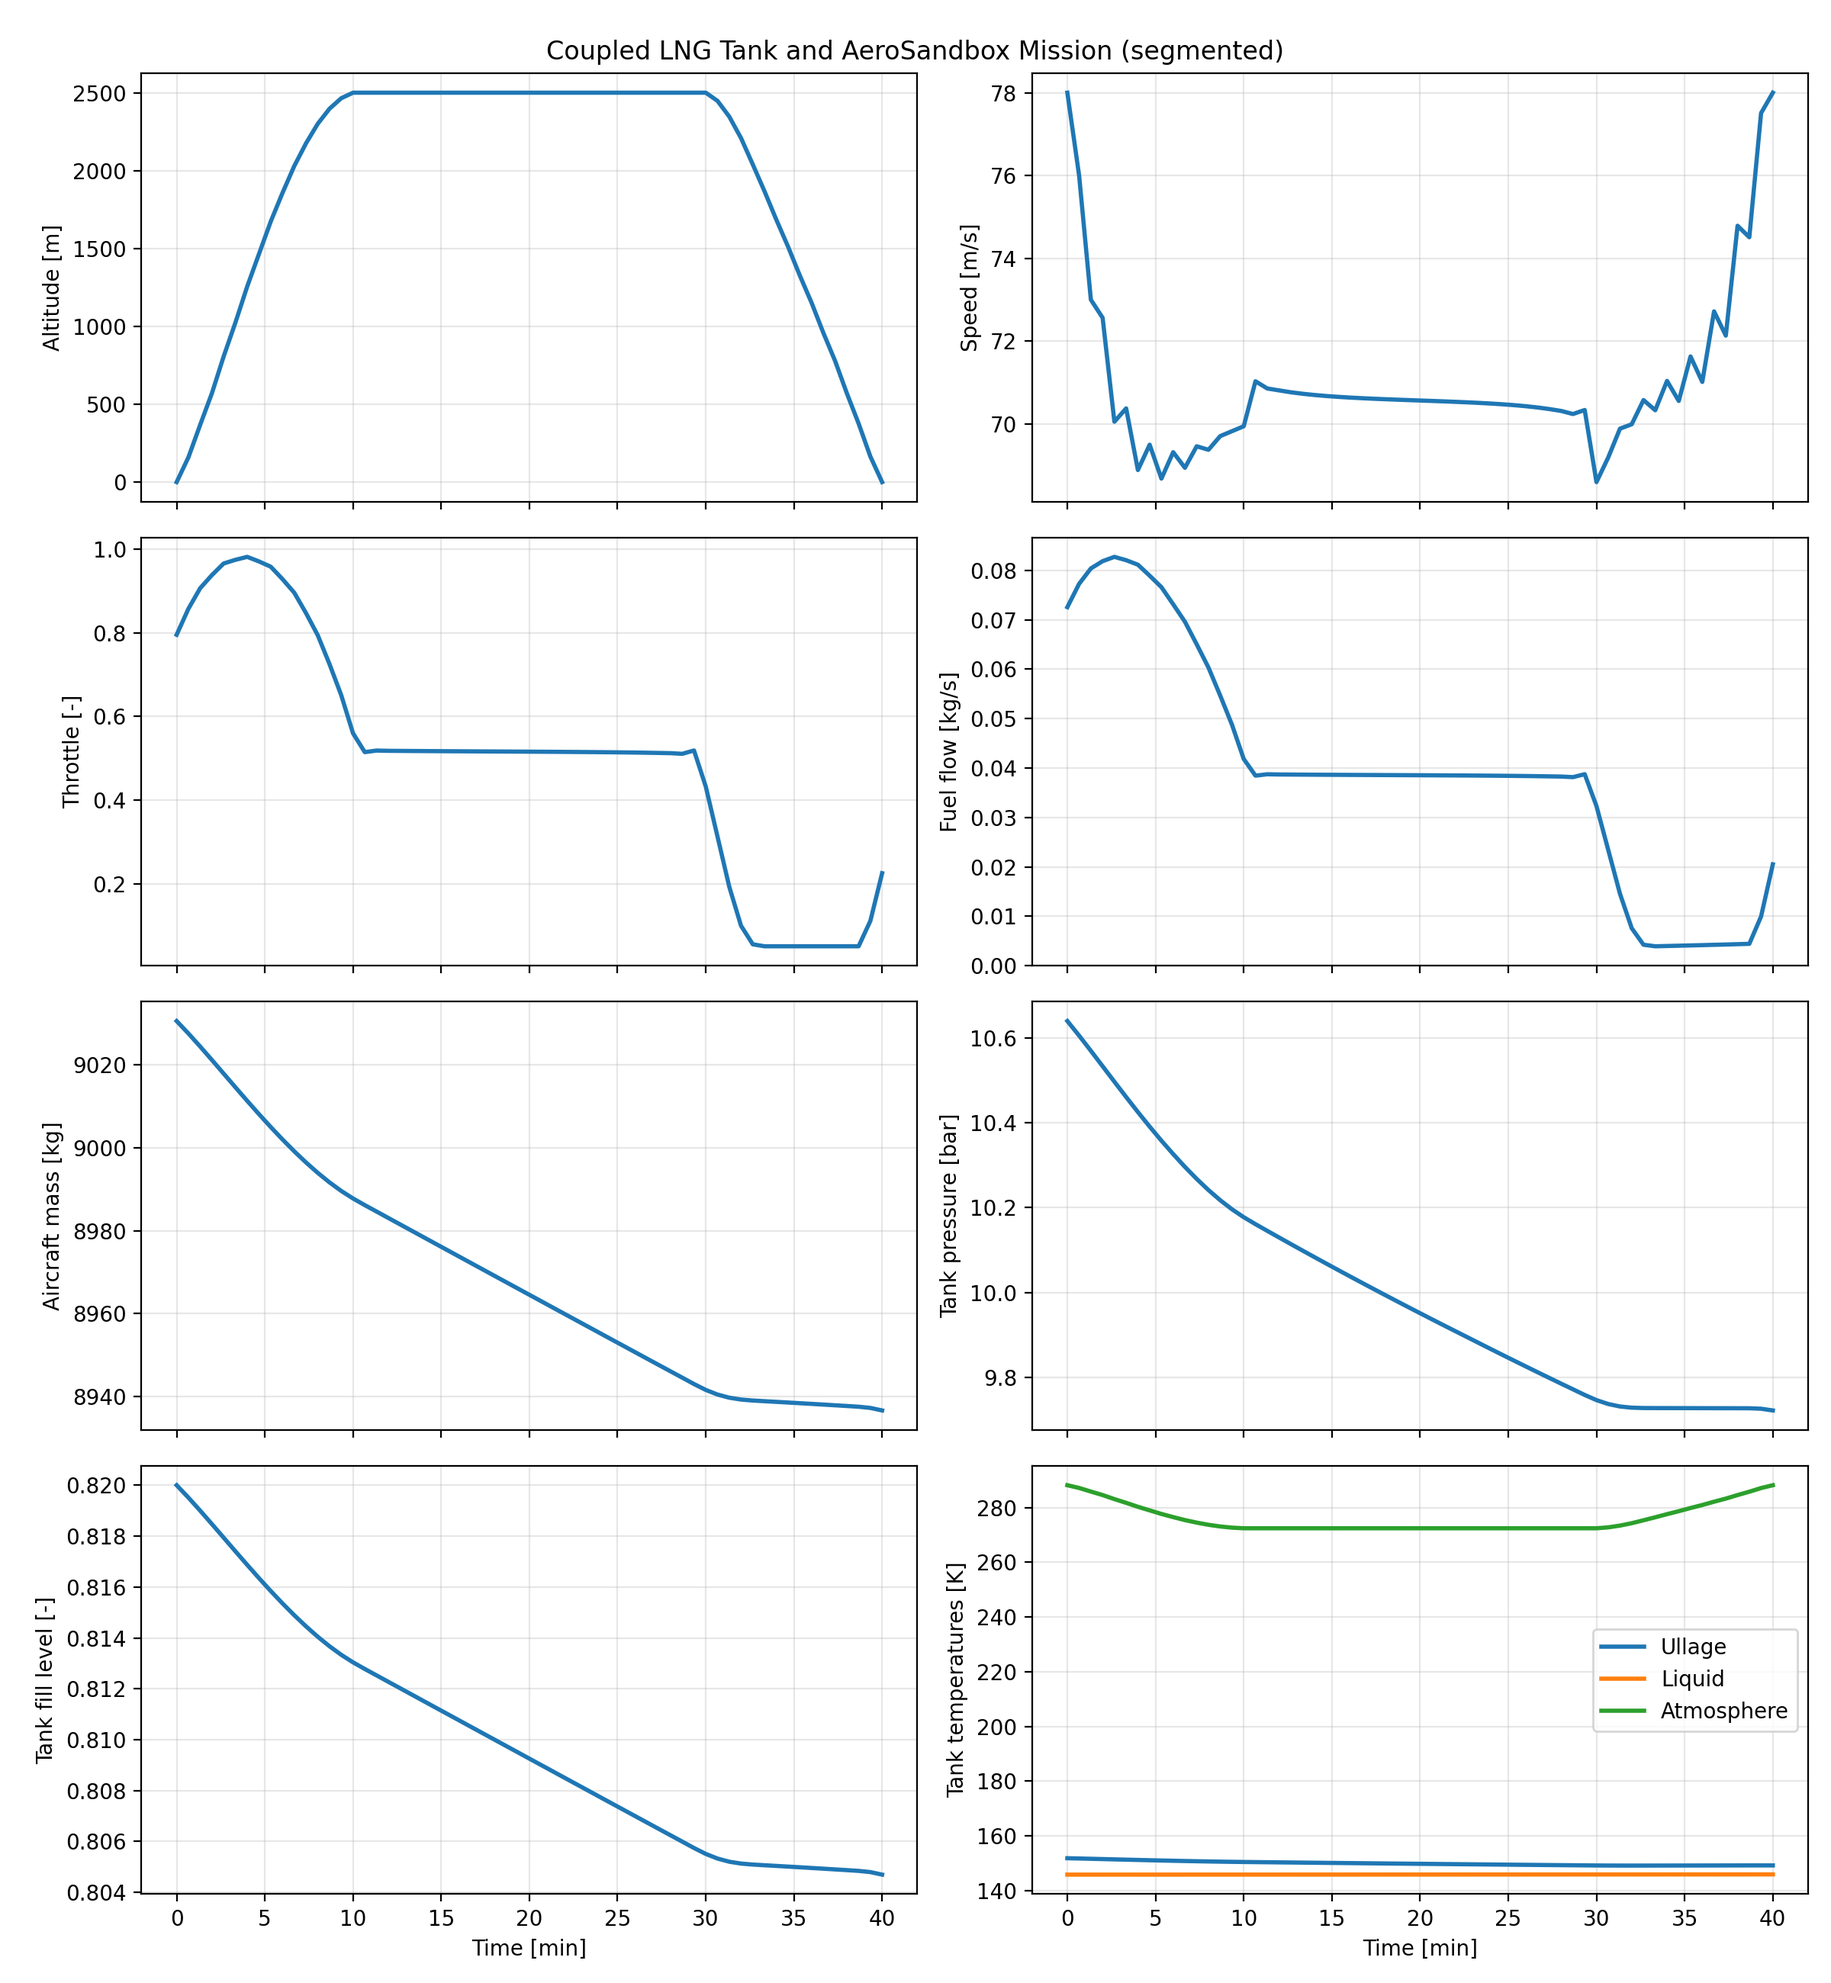
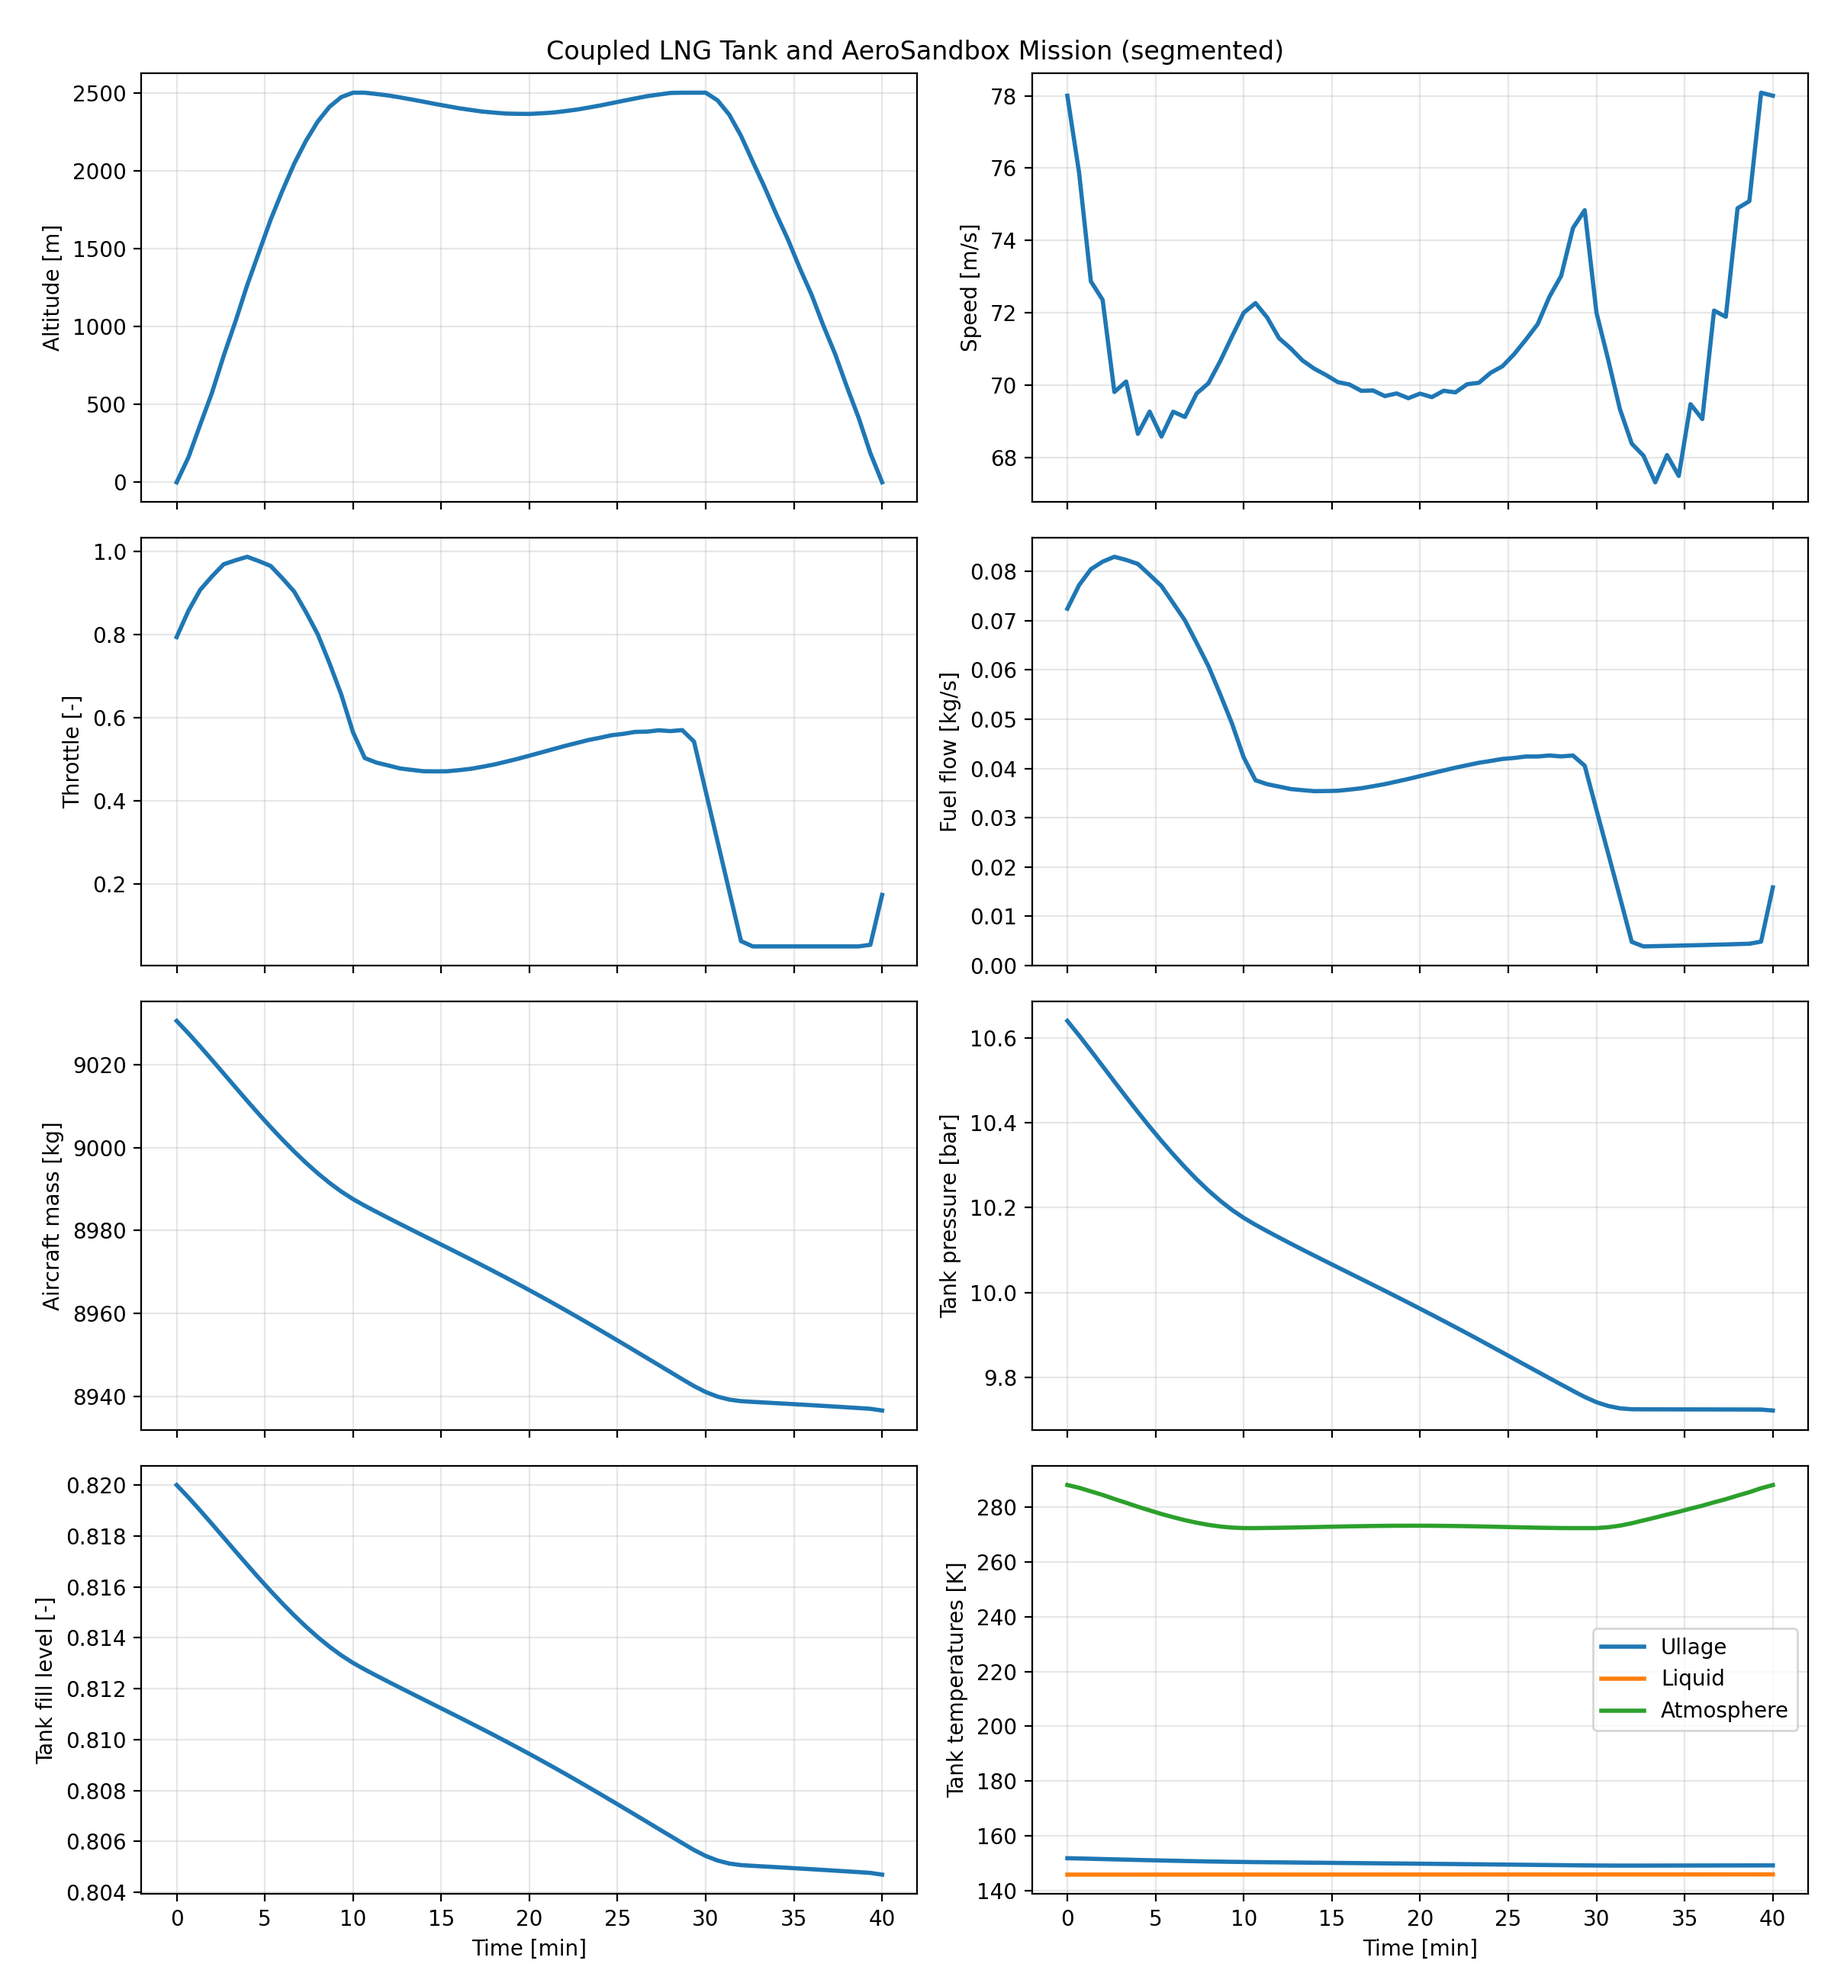
Vectorize coupled LNG tank ODE

diff --git a/examples/coupled_lng_aerosandbox_mission.py b/examples/coupled_lng_aerosandbox_mission.py
@@ -51,6 +51,8 @@ class MissionSpec:
     duration: float = 2400.0  # s
     range: float = 170e3  # m
     cruise_altitude: float = 2500.0  # m
+    cruise_speed: float = 72.0  # m/s
+    end_of_cruise_range_fraction: float = 0.75
     initial_speed: float = 78.0  # m/s
     final_speed: float = 78.0  # m/s
     p_heater: float = 1000.0  # W
@@ -88,7 +90,6 @@ def build_coupled_problem(
 
     n = mission.num_nodes
     time = onp.linspace(0.0, mission.duration, n)
-    dt = mission.duration / (n - 1)
     climb_end = int(0.25 * (n - 1))
     descent_start = int(0.75 * (n - 1))
 
@@ -186,7 +187,10 @@ def build_coupled_problem(
         opti.subject_to(
             [
                 dyn.altitude[climb_end] == mission.cruise_altitude,
-                dyn.altitude[climb_end : descent_start + 1] == mission.cruise_altitude,
+                dyn.altitude[descent_start] == mission.cruise_altitude,
+                dyn.speed[climb_end] == mission.cruise_speed,
+                dyn.speed[descent_start] == mission.cruise_speed,
+                dyn.x_e[descent_start] == mission.end_of_cruise_range_fraction * mission.range,
                 dyn.gamma[climb_end] == 0.0,
                 dyn.gamma[descent_start] == 0.0,
             ]
@@ -210,48 +214,47 @@ def build_coupled_problem(
     dyn.constrain_derivatives(opti, time)
 
     tank_states = [m_gas, m_liq, t_gas, t_liq, v_gas, q_add]
-    tank_rhs_values = []
-    aux = {key: [] for key in ["pressure", "fill_level", "m_dot_fuel", "mass", "q_gas", "q_liq", "t_env"]}
-
-    for k in range(n):
-        tank_inputs = MissionInputs(
-            duration=mission.duration,
-            t_env=t_env[k],
-            p_heater=mission.p_heater,
-            m_dot_liq_out=m_dot_fuel[k],
-            m_dot_gas_out=0.0,
+    tank_inputs = MissionInputs(
+        duration=mission.duration,
+        t_env=t_env,
+        p_heater=mission.p_heater,
+        m_dot_liq_out=m_dot_fuel,
+        m_dot_gas_out=0.0,
+    )
+    tank_rhs_values, tank_aux = tank_rhs(
+        tank_states,
+        tank_design,
+        tank_inputs,
+        props,
+        h_liq_frac=h_liq_frac,
+    )
+    for state, derivative in zip(tank_states, tank_rhs_values):
+        opti.constrain_derivative(
+            derivative=derivative,
+            variable=state,
+            with_respect_to=time,
+            method="trapezoidal",
         )
-        tank_f, tank_aux = tank_rhs(
-            [m_gas[k], m_liq[k], t_gas[k], t_liq[k], v_gas[k], q_add[k]],
-            tank_design,
-            tank_inputs,
-            props,
-            h_liq_frac=h_liq_frac[k],
-        )
-        tank_rhs_values.append(tank_f)
 
-        aux["pressure"].append(tank_aux["pressure"])
-        aux["fill_level"].append(tank_aux["fill_level"])
-        aux["m_dot_fuel"].append(m_dot_fuel[k])
-        aux["mass"].append(mass[k])
-        aux["q_gas"].append(tank_aux["q_gas"])
-        aux["q_liq"].append(tank_aux["q_liq"])
-        aux["t_env"].append(t_env[k])
-
-        opti.subject_to(aux["pressure"][k] <= mission.initial_pressure)
-        opti.subject_to(aux["pressure"][k] >= 2.0e5)
-        opti.subject_to(aux["fill_level"][k] >= 0.05)
-        opti.subject_to(aux["fill_level"][k] <= 0.95)
-        opti.subject_to(
-            liquid_volume_from_height_fraction(tank_design.radius, tank_design.length, h_liq_frac[k])
-            == volume * aux["fill_level"][k]
-        )
+    opti.subject_to(tank_aux["pressure"] <= mission.initial_pressure)
+    opti.subject_to(tank_aux["pressure"] >= 2.0e5)
+    opti.subject_to(tank_aux["fill_level"] >= 0.05)
+    opti.subject_to(tank_aux["fill_level"] <= 0.95)
+    opti.subject_to(
+        liquid_volume_from_height_fraction(tank_design.radius, tank_design.length, h_liq_frac)
+        == volume * tank_aux["fill_level"]
+    )
+    aux = {
+        "pressure": tank_aux["pressure"],
+        "fill_level": tank_aux["fill_level"],
+        "m_dot_fuel": m_dot_fuel,
+        "mass": mass,
+        "q_gas": tank_aux["q_gas"],
+        "q_liq": tank_aux["q_liq"],
+        "t_env": t_env,
+    }
 
     for k in range(n - 1):
-        for i, state in enumerate(tank_states):
-            opti.subject_to(
-                state[k + 1] - state[k] == 0.5 * dt * (tank_rhs_values[k][i] + tank_rhs_values[k + 1][i])
-            )
         opti.subject_to(throttle[k + 1] - throttle[k] <= 0.12)
         opti.subject_to(throttle[k + 1] - throttle[k] >= -0.12)
         opti.subject_to(cl[k + 1] - cl[k] <= 0.12)
@@ -299,13 +302,13 @@ def plot_solution(problem, sol, output_path):
         "range_km": onp.array(sol.value(states["x"])) / 1000,
         "speed_m_s": onp.array(sol.value(states["V"])),
         "throttle": onp.array(sol.value(states["throttle"])),
-        "mass_kg": onp.array([sol.value(v) for v in aux["mass"]]),
-        "fuel_flow_kg_s": onp.array([sol.value(v) for v in aux["m_dot_fuel"]]),
-        "pressure_bar": onp.array([sol.value(v) for v in aux["pressure"]]) / 1e5,
-        "fill_level": onp.array([sol.value(v) for v in aux["fill_level"]]),
+        "mass_kg": onp.array(sol.value(aux["mass"])),
+        "fuel_flow_kg_s": onp.array(sol.value(aux["m_dot_fuel"])),
+        "pressure_bar": onp.array(sol.value(aux["pressure"])) / 1e5,
+        "fill_level": onp.array(sol.value(aux["fill_level"])),
         "t_gas_K": onp.array(sol.value(states["T_gas"])),
         "t_liq_K": onp.array(sol.value(states["T_liq"])),
-        "t_env_K": onp.array([sol.value(v) for v in aux["t_env"]]),
+        "t_env_K": onp.array(sol.value(aux["t_env"])),
     }
 
     fig, axes = plt.subplots(4, 2, figsize=(12, 13), sharex=True)

diff --git a/lngtank/asb_properties_interpolants.py b/lngtank/asb_properties_interpolants.py
@@ -185,6 +185,8 @@ class CoolPropGridInterpolants:
 
         func = self._sat_grad_funcs[name] if deriv else self._sat_funcs[name]
         if self._is_symbolic(x):
+            if x.numel() > 1:
+                return ca.vertcat(*[func(x[i]) for i in range(x.numel())])
             return func(x)
 
         x_arr = np.asarray(x, dtype=float)
@@ -196,6 +198,18 @@ class CoolPropGridInterpolants:
             raise ValueError("Only first derivatives are supported by the CasADi interpolant backend.")
 
         if self._is_symbolic(x0) or self._is_symbolic(x1):
+            if not self._is_symbolic(x0):
+                x0 = ca.DM(x0)
+            if not self._is_symbolic(x1):
+                x1 = ca.DM(x1)
+            if x0.numel() > 1 or x1.numel() > 1:
+                if x0.numel() != x1.numel():
+                    raise ValueError("Symbolic interpolant inputs must have the same length.")
+                if deriv:
+                    grads = [self._gas_grad_funcs[name](ca.vertcat(x0[i], x1[i])) for i in range(x0.numel())]
+                    return ca.vertcat(*[grad[0] for grad in grads]), ca.vertcat(*[grad[1] for grad in grads])
+                return ca.vertcat(*[self._gas_funcs[name](ca.vertcat(x0[i], x1[i])) for i in range(x0.numel())])
+
             x = ca.vertcat(x0, x1)
             if deriv:
                 grad = self._gas_grad_funcs[name](x)
